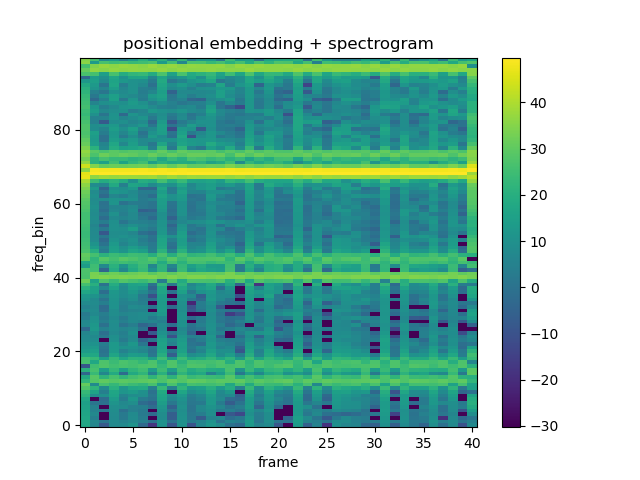
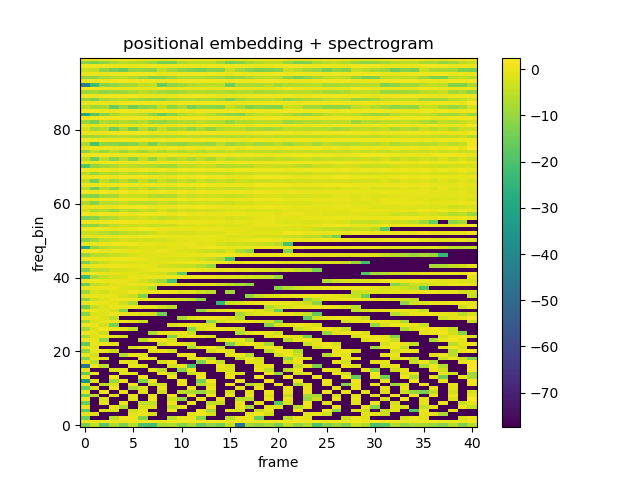
update

diff --git a/“audio_transformer_reconstruction”的副本.py b/“audio_transformer_reconstruction”的副本.py
@@ -132,7 +132,7 @@ class RandomGeneratedSignals(torch.utils.data.Dataset):
             batch_signal_, frequency_arr_ = SignalProducer.produce_batch(batch_size=size//split_batch_num, seconds=20, points_per_second=points_per_second, stable_slot=1, frequency_num=10, frequency_magnitude=100)
             batch_signal = torch.cat((batch_signal_, batch_signal), dim=0)
             frequency_arr = torch.cat((frequency_arr_, frequency_arr), dim=0)
-        spectrogram = torchaudio.transforms.Spectrogram(n_fft=198, return_complex=True, normalized="frame_length")
+        spectrogram = torchaudio.transforms.Spectrogram(n_fft=198, return_complex=True, normalized=True)
         spec = spectrogram(batch_signal)
         self.dataset = {idx:(batch_signal[idx], spec[idx], frequency_arr[idx]) for idx in range(size)}
         self.device = device
@@ -143,7 +143,7 @@ class RandomGeneratedSignals(torch.utils.data.Dataset):
     def __getitem__(self, item):
         audio, spec, frequency_arr = self.dataset.get(item)
         audio = torch.mean(audio.view(-1, 10), axis=1)
-        # spec = F.normalize(spec)
+        spec = F.normalize(spec)
         
         return (spec, audio, frequency_arr)
 
@@ -235,7 +235,10 @@ def sinusoids(length, channels, max_timescale=10000, frequency_magnitude=1000 * 
     # pos_embedding = pos_embedding.unsqueeze(-2)
     return pos_embedding
 
-for A in np.array([1, 10, 100, 200]) * 2 * np.pi:
+max_timescale_list = [10000, 10000, 10000, 10000, 10000, 10000]
+A_list = [1, 10, 100, 200, 500, 1000]
+
+for A in np.array(A_list) * 2 * np.pi:
     # fig, ax = plt.subplots()
     P = sinusoids(length=41, channels=100, max_timescale=10000, frequency_magnitude=A)
     # cax = ax.matshow(P.T)
@@ -515,14 +518,12 @@ def validate(dataloader, model):
     model.train()
     return losses / iters
 
-torch.manual_seed(2022)
-
 model_dictionary = {}
 idx = 0
 validation_dataset = RandomGeneratedSignals(10000)
-validation_dataloader = torch.utils.data.DataLoader(validation_dataset, batch_size=32, shuffle=True)
+validation_dataloader = torch.utils.data.DataLoader(validation_dataset, batch_size=128, shuffle=True)
 
-for sinusoids_max_timescale, sinusoids_frequency_magnitude in zip([10000, 10000, 10000, 10000], np.array([1, 10, 100, 200]) * 2 * np.pi):
+for sinusoids_max_timescale, sinusoids_frequency_magnitude in zip(max_timescale_list, np.array(A_list) * 2 * np.pi):
   print(idx)
   print(sinusoids_max_timescale)
   print(sinusoids_frequency_magnitude)
@@ -530,6 +531,7 @@ for sinusoids_max_timescale, sinusoids_frequency_magnitude in zip([10000, 10000,
   model_dictionary[idx]["sinusoids_max_timescale"] = sinusoids_max_timescale
   model_dictionary[idx]["sinusoids_frequency_magnitude"] = sinusoids_frequency_magnitude
 
+  torch.manual_seed(6666)
   model = Replicator(dims, sinusoids_max_timescale=sinusoids_max_timescale, sinusoids_frequency_magnitude=sinusoids_frequency_magnitude)
   model.to(DEVICE)
   model_dictionary[idx]["model"] = model
@@ -540,7 +542,7 @@ for sinusoids_max_timescale, sinusoids_frequency_magnitude in zip([10000, 10000,
   train_loss_list = []
   validation_loss_list = []
 
-  for epoch in range(3):
+  for epoch in range(15):
     model.train()
     losses = 0
     iters = 0
@@ -591,24 +593,24 @@ for sinusoids_max_timescale, sinusoids_frequency_magnitude in zip([10000, 10000,
 
   idx += 1
 
-fig, ax = plt.subplots()
+fig, ax = plt.subplots(figsize=(9, 6))
 for key in model_dictionary.keys():
-    A = model_dictionary[key]["sinusoids_frequency_magnitude"]
+    A = int(model_dictionary[key]["sinusoids_frequency_magnitude"] / (2 * np.pi))
     ax.plot(model_dictionary[key]["train_loss_list"], label=f"A: {A}")
 ax.set_xlabel("Epoch")
 ax.set_ylabel("loss")
 ax.set_title("training loss vs epoch")
-fig.legend()
+plt.legend(loc="best")
 fig.savefig('./train_loss.png')
 
-fig, ax = plt.subplots()
+fig, ax = plt.subplots(figsize=(9, 6))
 for key in model_dictionary.keys():
-    A = model_dictionary[key]["sinusoids_frequency_magnitude"]
+    A = int(model_dictionary[key]["sinusoids_frequency_magnitude"] / (2 * np.pi))
     ax.plot(model_dictionary[key]["validation_loss_list"], label=f"A: {A}")
 ax.set_xlabel("Epoch")
 ax.set_ylabel("loss")
 ax.set_title("validation loss vs epoch")
-fig.legend()
+plt.legend(loc="best")
 fig.savefig('./validation_loss.png')
 
 validation_dataloader = torch.utils.data.DataLoader(validation_dataset, batch_size=1, shuffle=True)
@@ -670,7 +672,7 @@ for key in model_dictionary.keys():
 
   model_dictionary[key]["positional_embedding_frequency_in_validation"] = positional_embedding_frequency
 
-fig = plt.figure(figsize = (16, 9))
+fig = plt.figure(figsize=(9, 6))
 ax = plt.axes(projection ="3d")
 for key in model_dictionary.keys():
   fixed_frequency = model_dictionary[key]["fixed_frequency_in_validation"]
@@ -682,14 +684,14 @@ for key in model_dictionary.keys():
   validation_loss = np.array(validation_loss).reshape((-1, 1))
   # print(fixed_frequency.shape, positional_embedding_frequency.shape, validation_loss.shape)
 
-  A = model_dictionary[key]["sinusoids_frequency_magnitude"]
+  A = int(model_dictionary[key]["sinusoids_frequency_magnitude"] / (2 * np.pi))
   ax.scatter(fixed_frequency, positional_embedding_frequency, validation_loss, label=f"A: {A}")
 
 ax.set_xlabel('fixed signal frequency')
 ax.set_ylabel('positional embedding_frequency')
 ax.set_zlabel('validation loss')
 ax.set_title('relationship between positional embedding frequency and signal frequency')
-fig.legend()
+plt.legend(loc="best")
 fig.savefig('./relationship_between_positional_embedding_frequency_and_signal_frequency.png')
 
 
@@ -700,7 +702,7 @@ for key in model_dictionary.keys():
 new_loader = torch.utils.data.DataLoader(dataset, batch_size=1, shuffle=True)
 mel, audio, frequency_arr = next(iter(new_loader))
 
-fig, ax = plt.subplots(5, figsize=(12, 12))
+fig, ax = plt.subplots(len(A_list)+1, figsize=(12, 12))
 ax[0].plot(audio[0].cpu().detach().numpy())
 ax[0].set_title('True signal')
 s = torchaudio.transforms.Spectrogram(n_fft=198)
@@ -722,7 +724,7 @@ for key in model_dictionary.keys():
       logits = r(mel.to(DEVICE), torch.cat((torch.zeros((audio.shape[0], 1)), audio[:, :-1]), dim=1).to(DEVICE))
 
   ax[idx].plot(logits.cpu().detach().numpy())
-  ax[idx].set_title(f'A: {model_dictionary[key]["sinusoids_frequency_magnitude"]}')
+  ax[idx].set_title(f'A: {int(model_dictionary[key]["sinusoids_frequency_magnitude"] / (2 * np.pi))}')
 
   fig_spec = Plot.plot_spectrogram(s(logits.cpu()))
   fig_spec.savefig('./spectrogram' + str(model_dictionary[key]["sinusoids_frequency_magnitude"]) + '.png')
